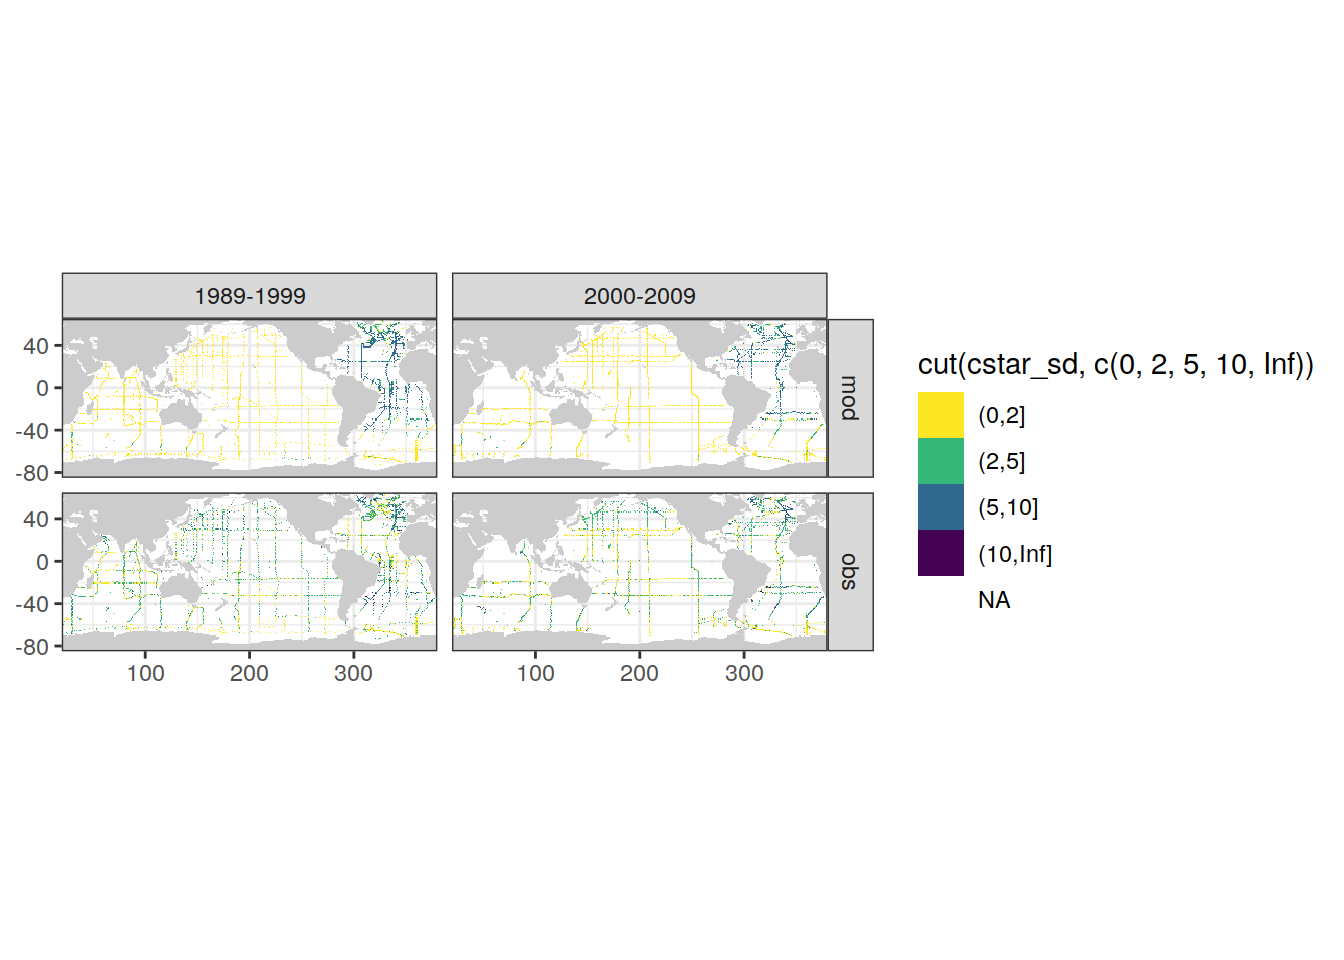
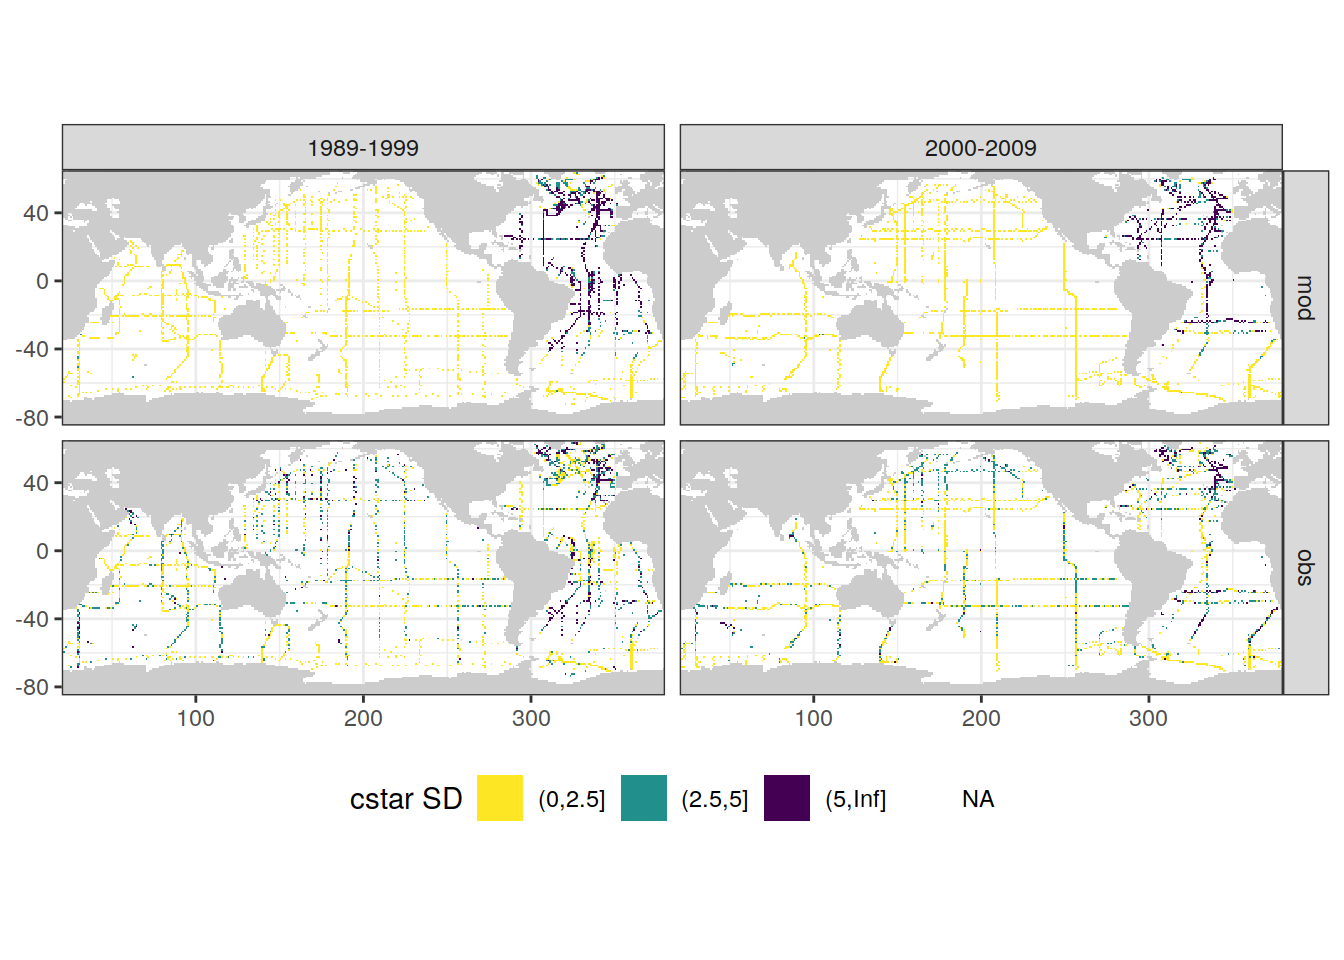
Build site.

diff --git a/docs/eMLR_data_preparation.html b/docs/eMLR_data_preparation.html
@@ -577,16 +577,16 @@ This reproducible <a href="http://rmarkdown.rstudio.com">R Markdown</a> analysis
 <div class="panel panel-default">
 <div class="panel-heading">
 <p class="panel-title">
-<a data-toggle="collapse" data-parent="#workflowr-checks" href="#strongRepositoryversionstrongahrefhttpsgithubcomjensdanielmuelleremlrobsvXXXtree6ddc78bda1316dc0926f2178ea09616068206ff6targetblank6ddc78ba"> <span class="glyphicon glyphicon-ok text-success" aria-hidden="true"></span> <strong>Repository version:</strong> <a href="https://github.com/jens-daniel-mueller/emlr_obs_v_XXX/tree/6ddc78bda1316dc0926f2178ea09616068206ff6" target="_blank">6ddc78b</a> </a>
+<a data-toggle="collapse" data-parent="#workflowr-checks" href="#strongRepositoryversionstrongahrefhttpsgithubcomjensdanielmuelleremlrobsvXXXtree8939f7e2858b278a0c9638d68bf6214a4c3d30datargetblank8939f7ea"> <span class="glyphicon glyphicon-ok text-success" aria-hidden="true"></span> <strong>Repository version:</strong> <a href="https://github.com/jens-daniel-mueller/emlr_obs_v_XXX/tree/8939f7e2858b278a0c9638d68bf6214a4c3d30da" target="_blank">8939f7e</a> </a>
 </p>
 </div>
[2 lines of base64/hex data omitted]
 <div class="panel-body">
 <p>
 Great! You are using Git for version control. Tracking code development and connecting the code version to the results is critical for reproducibility.
 </p>
 <p>
-The results in this page were generated with repository version <a href="https://github.com/jens-daniel-mueller/emlr_obs_v_XXX/tree/6ddc78bda1316dc0926f2178ea09616068206ff6" target="_blank">6ddc78b</a>. See the <em>Past versions</em> tab to see a history of the changes made to the R Markdown and HTML files.
+The results in this page were generated with repository version <a href="https://github.com/jens-daniel-mueller/emlr_obs_v_XXX/tree/8939f7e2858b278a0c9638d68bf6214a4c3d30da" target="_blank">8939f7e</a>. See the <em>Past versions</em> tab to see a history of the changes made to the R Markdown and HTML files.
 </p>
 <p>
 Note that you need to be careful to ensure that all relevant files for the analysis have been committed to Git prior to generating the results (you can use <code>wflow_publish</code> or <code>wflow_git_commit</code>). workflowr only checks the R Markdown file, but you know if there are other scripts or data files that it depends on. Below is the status of the Git repository when the results were generated:
@@ -633,6 +633,40 @@ Message
 </tr>
 </thead>
 <tbody>
+<tr>
+<td>
+Rmd
+</td>
+<td>
+<a href="https://github.com/jens-daniel-mueller/emlr_obs_v_XXX/blob/8939f7e2858b278a0c9638d68bf6214a4c3d30da/analysis/eMLR_data_preparation.Rmd" target="_blank">8939f7e</a>
+</td>
+<td>
+jens-daniel-mueller
+</td>
+<td>
+2021-11-05
+</td>
+<td>
+plotted C* sd at depth
+</td>
+</tr>
+<tr>
+<td>
+html
+</td>
+<td>
+<a href="https://rawcdn.githack.com/jens-daniel-mueller/emlr_obs_v_XXX/49f9af6dc0a06a019e961bd80ae6d4a056bfdcd7/docs/eMLR_data_preparation.html" target="_blank">49f9af6</a>
+</td>
+<td>
+jens-daniel-mueller
+</td>
+<td>
+2021-11-05
+</td>
+<td>
+Build site.
+</td>
+</tr>
 <tr>
 <td>
 Rmd
@@ -15964,6 +15998,43 @@ cstar_SD %&gt;%
                  position = &quot;dodge&quot;) +
   facet_grid(basin_AIP ~ .)</code></pre>
 <p><img src="figure/eMLR_data_preparation.Rmd/cstar_sd-1.png" width="672" style="display: block; margin: auto;" /></p>
+<p>
+<button type="button" class="btn btn-default btn-xs btn-workflowr btn-workflowr-fig" data-toggle="collapse" data-target="#fig-cstar_sd-1">
+Past versions of cstar_sd-1.png
+</button>
+</p>
+<div id="fig-cstar_sd-1" class="collapse">
+<div class="table-responsive">
+<table class="table table-condensed table-hover">
+<thead>
+<tr>
+<th>
+Version
+</th>
+<th>
+Author
+</th>
+<th>
+Date
+</th>
+</tr>
+</thead>
+<tbody>
+<tr>
+<td>
+<a href="https://github.com/jens-daniel-mueller/emlr_obs_v_XXX/blob/49f9af6dc0a06a019e961bd80ae6d4a056bfdcd7/docs/figure/eMLR_data_preparation.Rmd/cstar_sd-1.png" target="_blank">49f9af6</a>
+</td>
+<td>
+jens-daniel-mueller
+</td>
+<td>
+2021-11-05
+</td>
+</tr>
+</tbody>
+</table>
+</div>
+</div>
 <pre class="r"><code>cstar_SD &lt;- cstar_SD %&gt;% 
   filter(n &gt;= 3) %&gt;% 
   group_by(basin_AIP, era) %&gt;% 
@@ -15977,19 +16048,131 @@ cstar_SD %&gt;%
                  position = &quot;dodge&quot;) +
   facet_grid(basin_AIP ~ .)</code></pre>
 <p><img src="figure/eMLR_data_preparation.Rmd/cstar_sd-2.png" width="672" style="display: block; margin: auto;" /></p>
+<p>
+<button type="button" class="btn btn-default btn-xs btn-workflowr btn-workflowr-fig" data-toggle="collapse" data-target="#fig-cstar_sd-2">
+Past versions of cstar_sd-2.png
+</button>
+</p>
+<div id="fig-cstar_sd-2" class="collapse">
+<div class="table-responsive">
+<table class="table table-condensed table-hover">
+<thead>
+<tr>
+<th>
+Version
+</th>
+<th>
+Author
+</th>
+<th>
+Date
+</th>
+</tr>
+</thead>
+<tbody>
+<tr>
+<td>
+<a href="https://github.com/jens-daniel-mueller/emlr_obs_v_XXX/blob/49f9af6dc0a06a019e961bd80ae6d4a056bfdcd7/docs/figure/eMLR_data_preparation.Rmd/cstar_sd-2.png" target="_blank">49f9af6</a>
+</td>
+<td>
+jens-daniel-mueller
+</td>
+<td>
+2021-11-05
+</td>
+</tr>
+</tbody>
+</table>
+</div>
+</div>
 <pre class="r"><code>cstar_SD %&gt;%  
   ggplot() +
   geom_point(aes(cstar_sd_rank ,cstar_sd, col=era)) +
   facet_grid(basin_AIP ~ data_source)</code></pre>
 <p><img src="figure/eMLR_data_preparation.Rmd/cstar_sd-3.png" width="672" style="display: block; margin: auto;" /></p>
+<p>
+<button type="button" class="btn btn-default btn-xs btn-workflowr btn-workflowr-fig" data-toggle="collapse" data-target="#fig-cstar_sd-3">
+Past versions of cstar_sd-3.png
+</button>
+</p>
+<div id="fig-cstar_sd-3" class="collapse">
+<div class="table-responsive">
+<table class="table table-condensed table-hover">
+<thead>
+<tr>
+<th>
+Version
+</th>
+<th>
+Author
+</th>
+<th>
+Date
+</th>
+</tr>
+</thead>
+<tbody>
+<tr>
+<td>
+<a href="https://github.com/jens-daniel-mueller/emlr_obs_v_XXX/blob/49f9af6dc0a06a019e961bd80ae6d4a056bfdcd7/docs/figure/eMLR_data_preparation.Rmd/cstar_sd-3.png" target="_blank">49f9af6</a>
+</td>
+<td>
+jens-daniel-mueller
+</td>
+<td>
+2021-11-05
+</td>
+</tr>
+</tbody>
+</table>
+</div>
+</div>
 <pre class="r"><code>map +
   geom_raster(data = left_join(cstar_SD,
                                GLODAP %&gt;%
                                  distinct(cruise, station, lon, lat)),
-              aes(lon, lat, fill = cut(cstar_sd, c(0,2,5,10,Inf)))) +
+              aes(lon, lat, fill = cut(cstar_sd, c(0, 2.5, 5, Inf)))) +
   facet_grid(data_source ~ era) +
-  scale_fill_viridis_d(direction = -1)</code></pre>
+  scale_fill_viridis_d(direction = -1, name = &quot;cstar SD&quot;) +
+  theme(legend.position = &quot;bottom&quot;)</code></pre>
 <p><img src="figure/eMLR_data_preparation.Rmd/cstar_sd-4.png" width="672" style="display: block; margin: auto;" /></p>
+<p>
+<button type="button" class="btn btn-default btn-xs btn-workflowr btn-workflowr-fig" data-toggle="collapse" data-target="#fig-cstar_sd-4">
+Past versions of cstar_sd-4.png
+</button>
+</p>
+<div id="fig-cstar_sd-4" class="collapse">
+<div class="table-responsive">
+<table class="table table-condensed table-hover">
+<thead>
+<tr>
+<th>
+Version
+</th>
+<th>
+Author
+</th>
+<th>
+Date
+</th>
+</tr>
+</thead>
+<tbody>
+<tr>
+<td>
+<a href="https://github.com/jens-daniel-mueller/emlr_obs_v_XXX/blob/49f9af6dc0a06a019e961bd80ae6d4a056bfdcd7/docs/figure/eMLR_data_preparation.Rmd/cstar_sd-4.png" target="_blank">49f9af6</a>
+</td>
+<td>
+jens-daniel-mueller
+</td>
+<td>
+2021-11-05
+</td>
+</tr>
+</tbody>
+</table>
+</div>
+</div>
 </div>
 <div id="slab-distribution" class="section level2" number="7.2">
 <h2 number="7.2"><span class="header-section-number">7.2</span> Slab distribution</h2>
